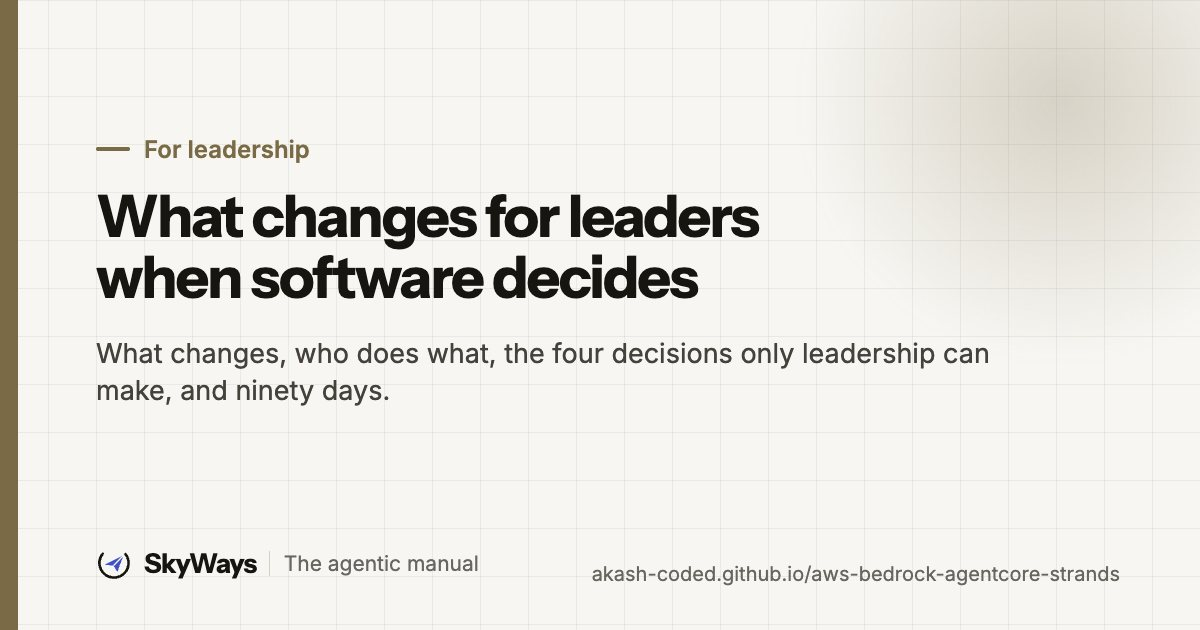
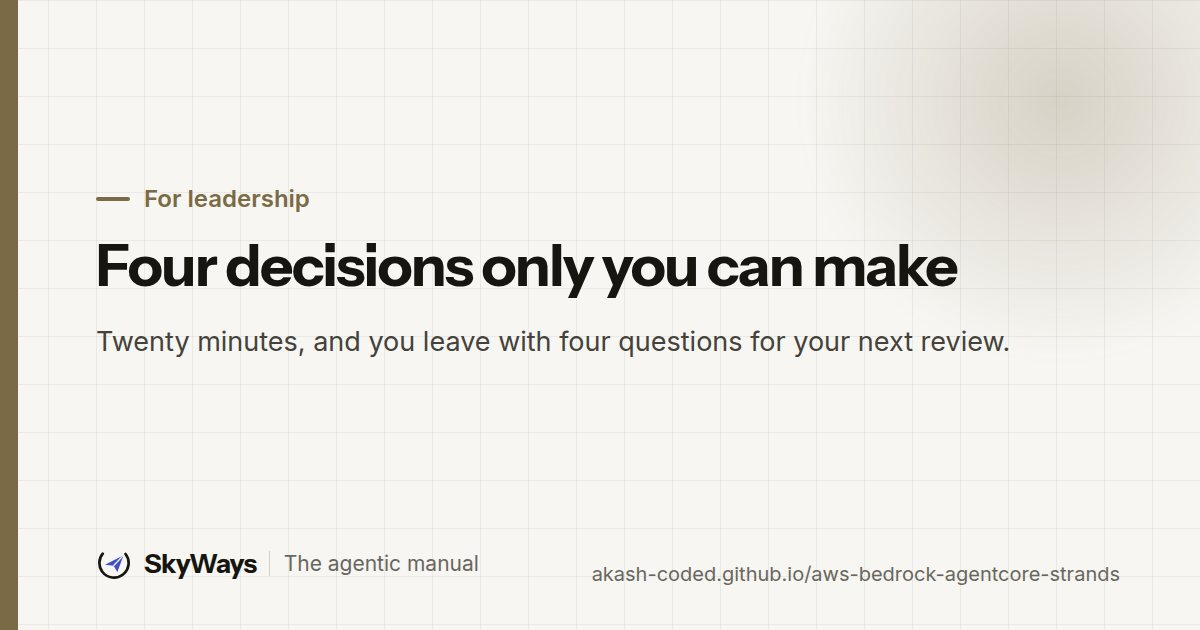
The leadership page's name follows it into the drawer, the search and its social card
The drawer and the search entry called the page "The operating protocol" and
described the old one; both now say "Four decisions only you can make", and
the social card carries the new title and line. The picture pack lists only
maps that open a lesson, so the leadership page's own map does not get a link
to a lesson that does not exist. Two verdicts a reader sees in the engine's
calculators lose their dash.

Claude-Session: https://claude.ai/code/session_01NALejySY8WrX289xXqTTSm

diff --git a/site/theme/engine.js b/site/theme/engine.js
@@ -127,7 +127,7 @@
         normal: pct(lo), wilson: pct(wilson),
         bound: { v: pct(use) + (n < 100 ? " (Wilson)" : ""), tone: proven ? "ok" : "warn" },
         verdict: proven
-          ? { v: "Proven — the lower bound clears the bar.", tone: "ok" }
+          ? { v: "Proven: the lower bound clears the bar.", tone: "ok" }
           : p <= bar
             ? { v: "The score itself is below the bar. More cases will not fix this.", tone: "stop" }
             : { v: "Not proven. Owe " + (needed - n).toLocaleString("en-GB") + " more cases (" +
@@ -246,7 +246,7 @@
           var missing = boxes.filter(function (b) { return !b.checked; })[0];
           next.textContent = missing
             ? (missing.getAttribute("data-label") || "").trim()
-            : "Nothing missing. Re-check in a quarter — this list goes stale.";
+            : "Nothing missing. Re-check in a quarter: this list goes stale.";
         }
         root.setAttribute("data-filled", String(got.length));
       }

diff --git a/site/render.py b/site/render.py
@@ -130,7 +130,7 @@ def _menu(up: str, nav_id: str) -> str:
                    ("method/", "The method · four phases on one page", "method"),
                    ("learn/interviews/", "Interview banks and careers", "")]),
         ("Your role, end to end", roles),
-        ("For leadership", [("protocol/", "The operating protocol", "protocol"),
+        ("For leadership", [("protocol/", "Four decisions only you can make", "protocol"),
                             ("models/", "Twelve mental models", "models")]),
         ("Libraries", [("templates/", "Artefact templates", "templates"),
                        ("prompts/", "Prompt templates", "prompts"),
@@ -1175,7 +1175,7 @@ def search_index(roles: list[dict]) -> str:
     for m in models.MODELS:
         rows.append({"t": m["name"], "d": _re.sub(r"<[^>]+>", "", m["one"]), "u": f"models/#{m['id']}", "k": "Mental model"})
     rows += [
-        {"t": "The operating protocol", "d": "For whoever funds the work: what changes, who does what, the four decisions only leadership can make.", "u": "protocol/", "k": "Leadership"},
+        {"t": "Four decisions only you can make", "d": "For whoever funds the work: the question to ask about each decision at your next review, a test for each answer, ninety days and your first thirty.", "u": "protocol/", "k": "Leadership"},
         {"t": "The SkyWays PDLC on one page", "d": "Four phases, one hard gate, eight loops, each role across the phases, and what a model may draft.", "u": "method/", "k": "Method"},
         {"t": "Frameworks, acronyms and the pictures", "d": "AI-DLC, AIDD, BMAD and SDD on one lifecycle; every acronym; the risk ladder and chained probability.", "u": "frameworks/", "k": "Reference"},
         {"t": "Artefact templates", "d": "Every artefact skeleton, copyable, by role.", "u": "templates/", "k": "Library"},

diff --git a/site/pages/ogcards.py b/site/pages/ogcards.py
@@ -102,8 +102,8 @@ def all_cards(roles: list[dict]) -> list[str]:
               "Four phases, one hard gate and eight loops, with each role across them and what a model may draft."),
          card("learn", "learn", "A free tutorial", "Agentic PDLC Tutorial: Run AI Agent Projects, Step by Step",
               f"{len(lessons)} short lessons on running software where an AI model does part of the work."),
-         card("protocol", "protocol", "For leadership", "What changes for leaders when software decides",
-              "What changes, who does what, the four decisions only leadership can make, and ninety days."),
+         card("protocol", "protocol", "For leadership", "Four decisions only you can make",
+              "Twenty minutes, and you leave with four questions for your next review."),
          card("models", "models", "Mental models", "Twelve rules of thumb for software that decides",
               "What each predicts, the mistake it prevents, and a test for whether it has landed."),
          card("templates", "templates", "The template library", "Artefact templates", "Every artefact skeleton in the manual, by role, with a copy button."),

diff --git a/site/pages/pictures.py b/site/pages/pictures.py
@@ -150,7 +150,9 @@ def catalogue() -> list[dict]:
         cap = ""
         if key.startswith("map:"):
             slug = key.split(":", 1)[1]
-            title = lessons[slug].title if slug in lessons else slug.replace("-", " ")
+            if slug not in lessons:
+                continue  # a map drawn for a page, not a lesson (the leadership page's line): no lesson to link to
+            title = lessons[slug].title
         elif key.startswith("sketch:"):      # its name is its title; its caption is what it says; it lives in its lesson
             sp = sketches[key.split(":", 1)[1]]
             title, cap = sp["name"].replace("-", " ").capitalize(), sp["caption"]
